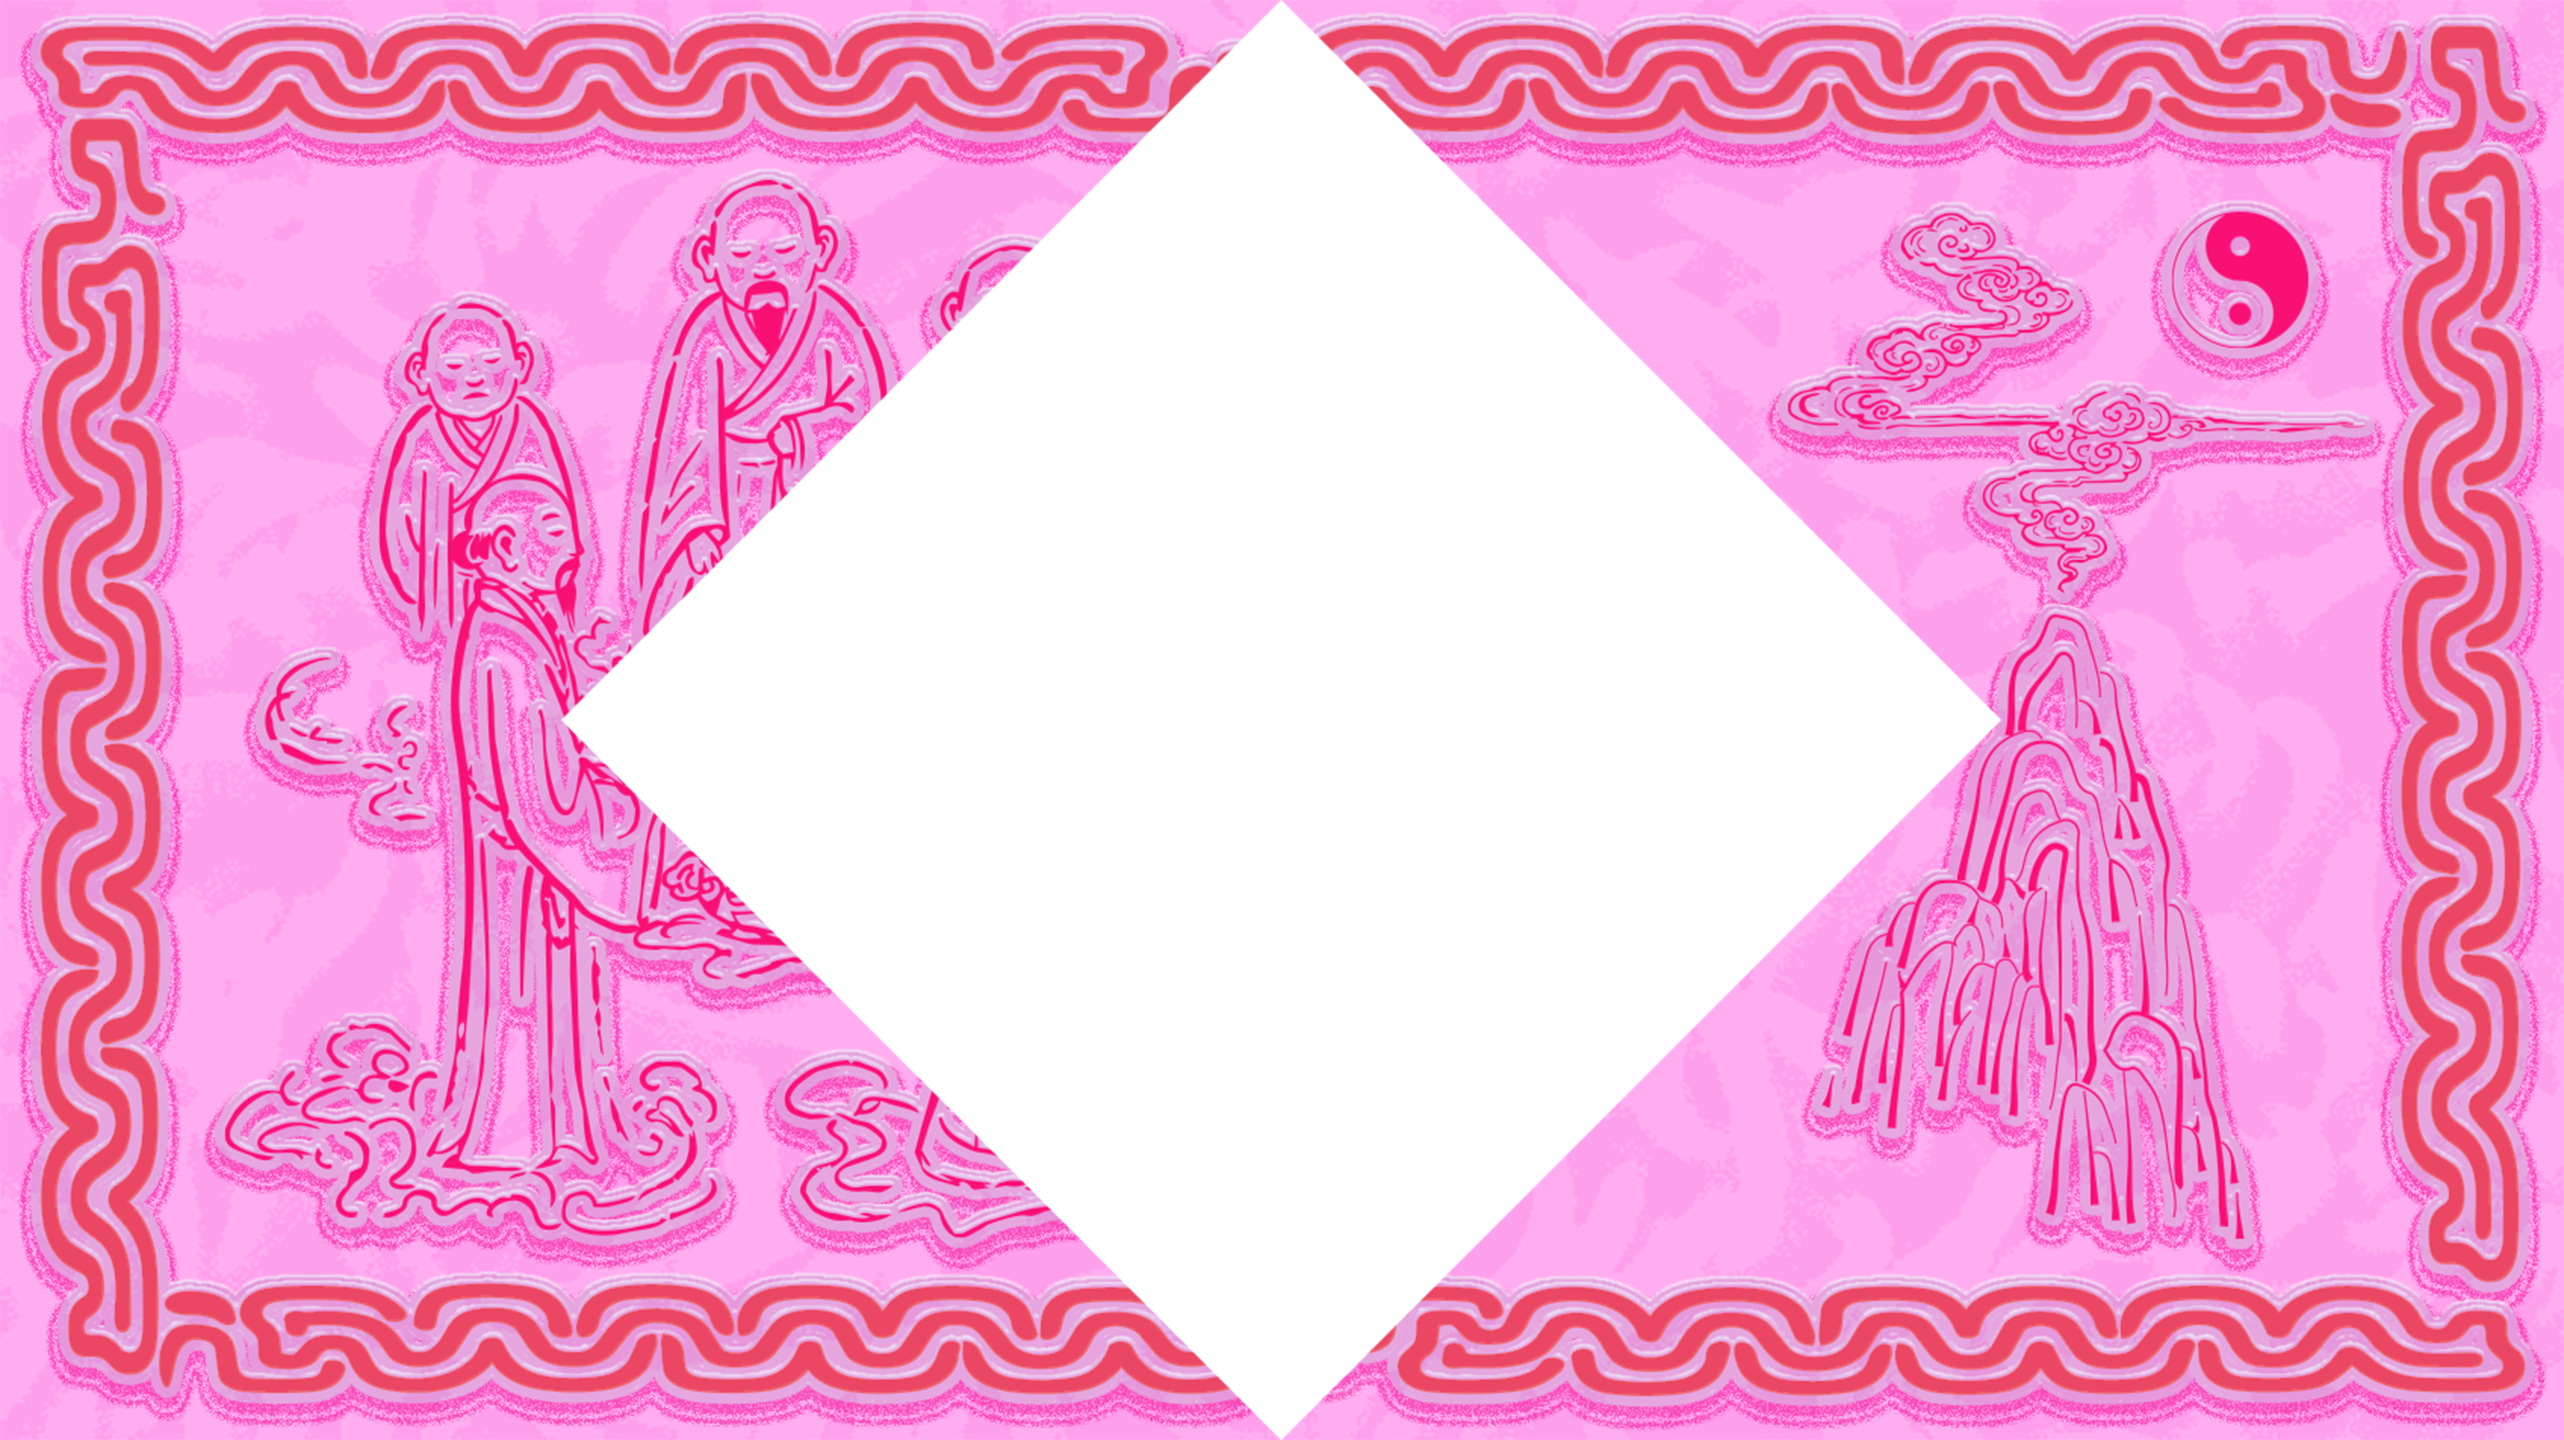
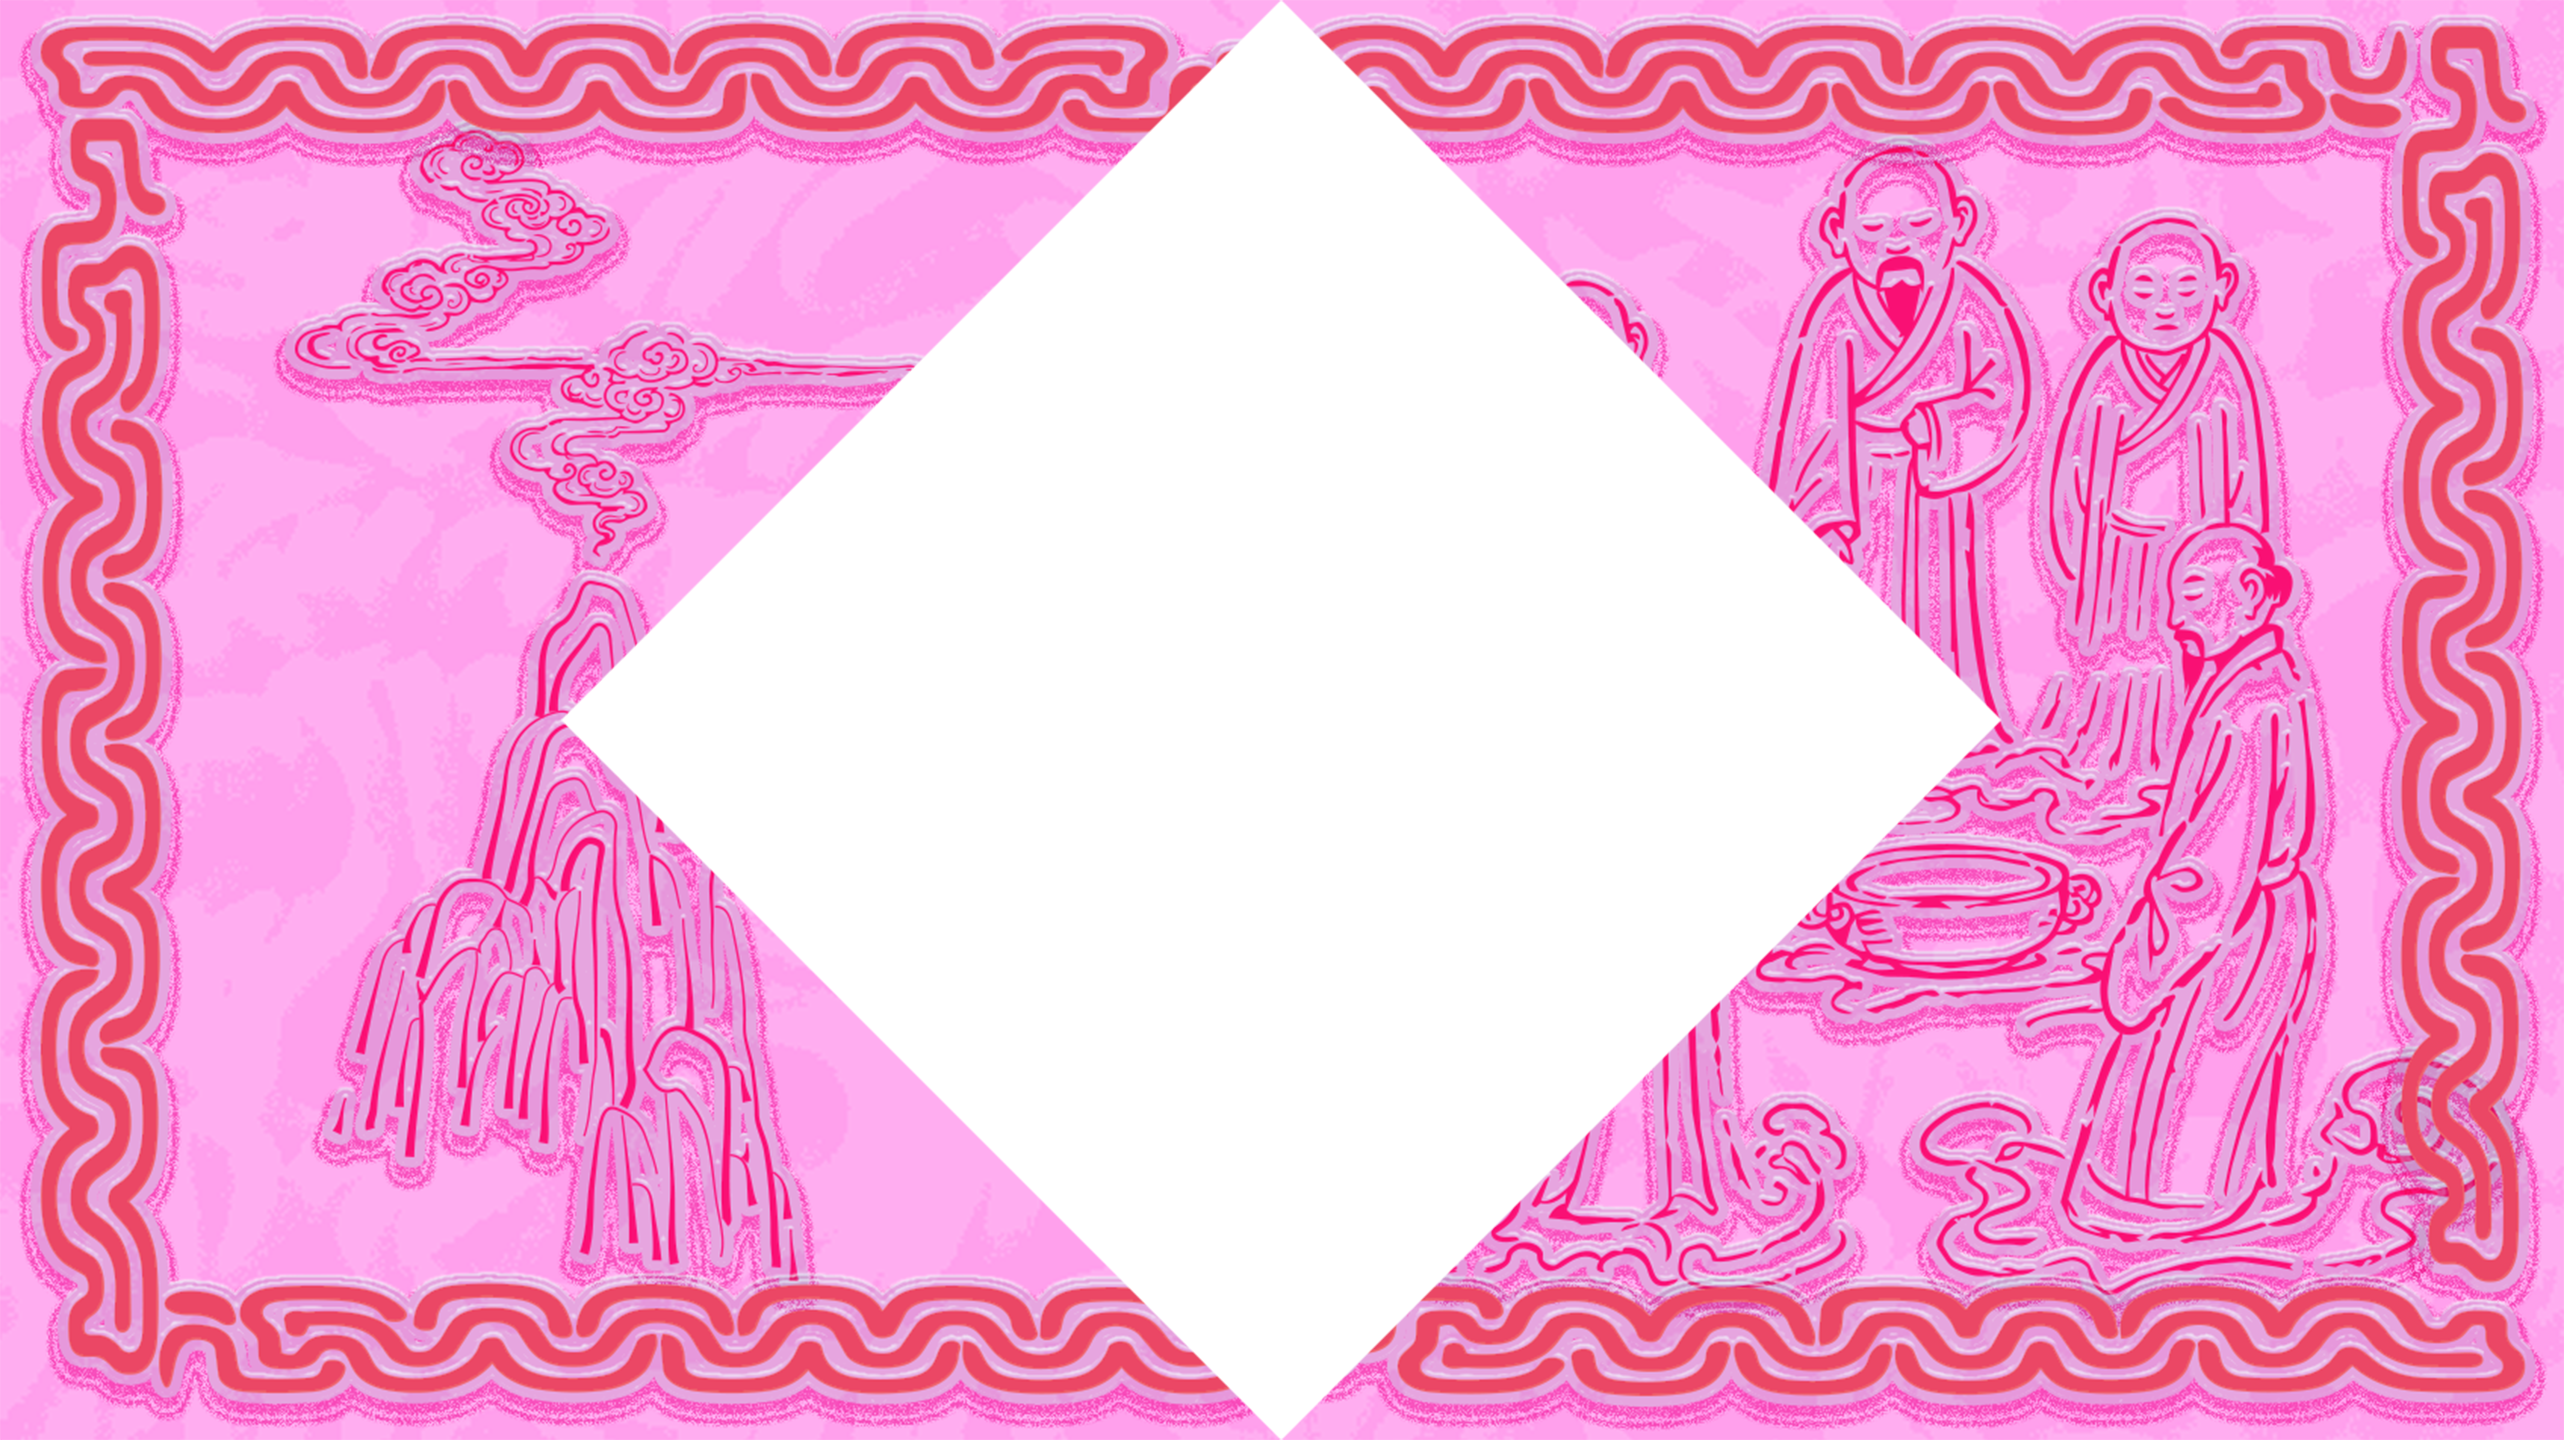
pg11 이미지 교체

Changed region(s): [[0.5616, 0.0938, 0.9984, 0.9375], [0.0624, 0.0938, 0.4368, 0.9062], [0.5928, 0.1875, 0.6552, 0.25]]

diff --git a/index_1.html b/index_1.html
@@ -315,7 +315,7 @@
     <div id="bg-page-7" class="page-layer" style="background-image:url('page8.png?v=1')"></div>
     <div id="bg-page-8" class="page-layer" style="background-image:url('page9.png?v=1')"></div>
     <div id="bg-page-9" class="page-layer" style="background-image:url('page10.png?v=1')"></div>
-    <div id="bg-page-10" class="page-layer flip-x" style="background-image:url('pg11.png?v=1')"></div>
+    <div id="bg-page-10" class="page-layer flip-x" style="background-image:url('pg11.png?v=2')"></div>
     <div id="bg-page-11" class="page-layer" style="background-image:url('page12.png?v=1')"></div>
     <div id="bg-page-12" class="page-layer" style="background-image:url('page13.png?v=1')"></div>
     <div id="void"></div>
@@ -429,7 +429,7 @@
   [
     './pg1.png?v=2', './pg2.png?v=1', './pg3.png?v=1', './pg4.png?v=1',
     './page5.png?v=1', './page6.png?v=1', './page7.png?v=1', './page8.png?v=1',
-    './page9.png?v=1', './page10.png?v=1', './pg11.png?v=1', './page12.png?v=1', './page13.png?v=1',
+    './page9.png?v=1', './page10.png?v=1', './pg11.png?v=2', './page12.png?v=1', './page13.png?v=1',
     './yinandyang.png?v=1',
   ].forEach((src) => {
     const preload = new Image();
